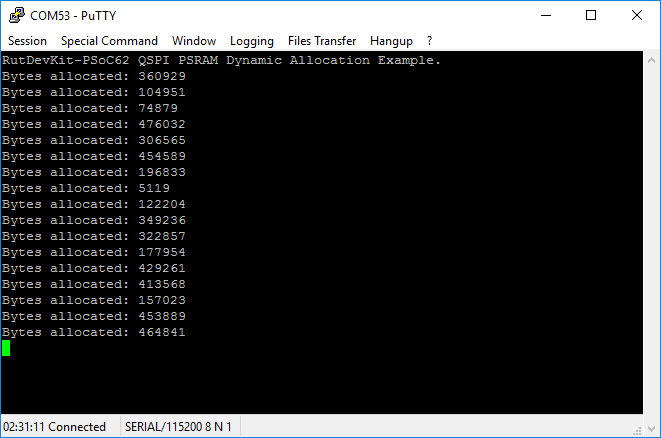
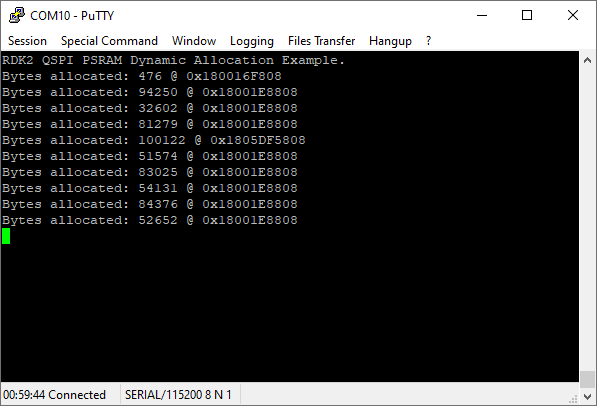
ReadMe.md update.

Changed region(s): [[0.0, 0.0, 1.0, 1.0], [0.8744, 0.0, 0.9045, 0.0591]]

diff --git a/README.md b/README.md
@@ -1,4 +1,4 @@
-# RutDevKit-PSoC62 QSPI PSRAM Dynamic Allocation Example
+# RDK2 QSPI PSRAM Dynamic Allocation Example
 
 Rutronik Development Kit Programmable System-on-Chip CY8C6245AZI-S3D72 "QSPI PSRAM Dynamic Allocation" Example. 
 
@@ -6,11 +6,16 @@ This example demonstrates how to configure and use the PSRAM APS6404L-3SQR-ZR  w
 
  <img src="images/rutdevkit_model.png" style="zoom:20%;" />
 
+## Requirements
+
+- [ModusToolbox® software](https://www.infineon.com/cms/en/design-support/tools/sdk/modustoolbox-software/) v3.0
+
 ### Using the code example with a ModusToolbox IDE:
 
 1. Import the project: **File** > **Import...** > **General** > **Existing Projects into Workspace** > **Next**.
-2. Select the directory where **"RutDevKit-PSoC62_QSPI_PSRAM_DYN_ALLOC"** resides and click  **Finish**.
-3. Select and build the project **Project ** > **Build Project**.
+2. Select the directory where **"RDK2_QSPI_PSRAM_DYN_ALLOC"** resides and click  **Finish**.
+3. Update libraries using  a **"Library Manager"** tool.
+4. Select and build the project **Project ** > **Build Project**.
 
 ### Operation
 
@@ -36,7 +41,7 @@ The APS6404L-3SQR-ZR PSRAM memory configuration structures are generated by the 
 
 ### Debugging
 
-If you successfully have imported the example, the debug configurations are already prepared to use with a the KitProg3, MiniProg4, or J-link. Open the ModusToolbox perspective and find the Quick Panel. Click on the desired debug launch configuration and wait until the programming completes and debugging starts.
+If you successfully have imported the example, the debug configurations are already prepared to use with a the KitProg3, MiniProg4, or J-link. Open the ModusToolbox perspective and find the Quick Panel. Click on the desired debug launch configuration and wait until the programming completes and the debugging starts.
 
 <img src="images/debug.png" style="zoom:100%;" />
 
